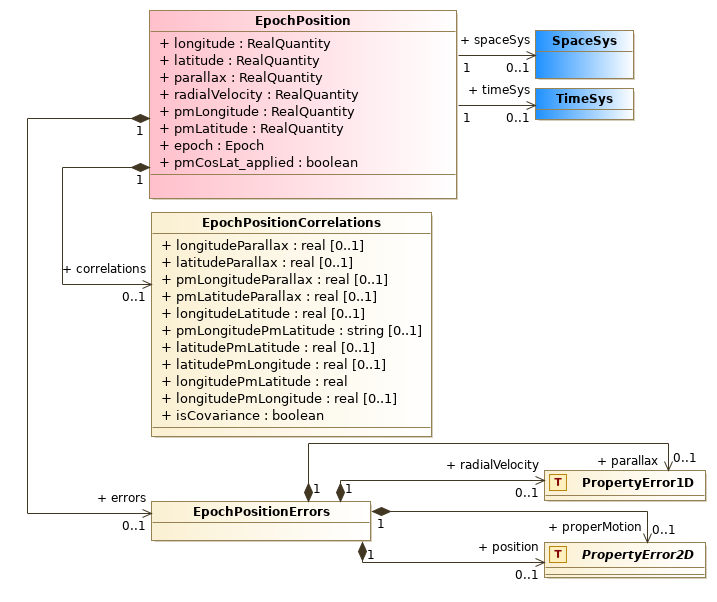
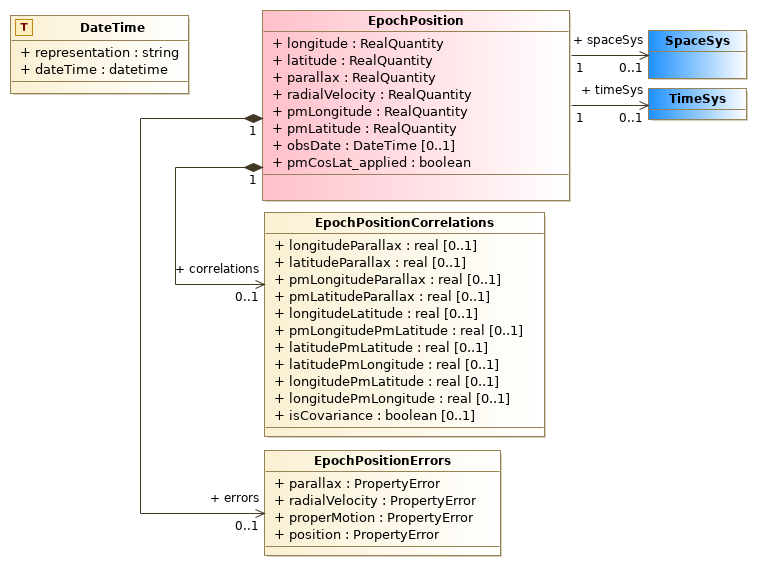
Doc update

diff --git a/docs/mivot/annoter.rst b/docs/mivot/annoter.rst
@@ -2,15 +2,16 @@
 MIVOT (``pyvo.mivot``): Annotation Writer - Public API
 ******************************************************
 
-This API allows to easily map VOTable data to recommended VO models, especially MANGO.
+This API allows to easily map VOTable data to the Mango data model (both native and imported components).
 Only a little knowledge of the models is required.
 
 Mango is a model designed to enhance the description of table data in a way that each table
 row can be interpreted as a Mango Object.
-Mango objects are made of a property container, a description of the data origin and links on other Mango objects (not implemented yet).
+Mango objects are made of a property container, a description of the data origin and links
+on other Mango objects (not implemented yet).
 
-In this current implementation, only a few properties are supported (Epoch position, photometry, and color)
-and the data origin can be added as literal values (not connected with table data). 
+In this current implementation, only a 3 properties are supported (Epoch position, photometry, and color)
+in addition to the data origin that can be added as literal values (not connected with table data). 
 
 The pseudo codes below show the way to use this API.
 
@@ -36,7 +37,7 @@ We can now add the description of the data origin.
 
  .. code-block:: python
  
-     builder.add_query_origin(...mapping...)
+     builder.add_query_origin(mapping)
  
 - The order in which the components are added does not matter.
 - The details of the parameters are described below.
@@ -57,20 +58,67 @@ are either column names or literal values.
 
 The lists of supported roles are given in the :py:mod:`pyvo.mivot.glossary`.
 
-The (3) functions adding properties have all 3 arguments
+The 3 functions adding properties have all 3 arguments
 
 - ``filter/frame``: Map of the coordinate systems or photometric calibrations that apply to the property.
   All values specified here are considered literal. 
   The corresponding Mivot instances are placed in the GLOBALS block.
+  
+  - **Photometric filter**: must be given as a filter profile service identifier (filter id followed with the photometric system)
+   
+    - Identifiers can be found on  the SVO `page <http://svo2.cab.inta-csic.es/theory/fps/>`_
+      (example: ``GAIA/GAIA3.Grp/AB``) 
+    - The FPS service returns a full calibration instance, which is then split into a filter object  
+      and a calibration object that refers to that filter.
+    - Each one of these components has its own ``dmid`` generated by the API. ``dmid`` can be used to reference them.
+      Example for filter ``GAIA/GAIA3.Grp/AB``:  
+       
+      - photometric calibration identifer: ``dmid="_photcal_GAIA_GAIA3_Grvs_AB"``
+      - filter identifier ``dmid="_filter_GAIA_GAIA3_Grvs_AB"``   
+  
+  - **Coordinate systems**: Can be given either by ``dmid`` or by parameters
+    (see `pyvo.mivot.writer.InstancesFromModels.add_simple_space_frame` 
+    and `pyvo.mivot.writer.InstancesFromModels.add_simple_time_frame`).
+
+    - by ``dmid``: Identifiers are generated by the API when a frame is added in the GLOBALS. 
+      (example ``{"dmid": "_spaceframe_spaceRefFrame_equinox_refPosition"}``)
+    - by parameters: The mapping parameters are given as dictionaries as for the mapping  (see below)
+      (example ``{"spaceRefFrame": "ICRS", "refPosition": 'BARYCENTER'}``)
+
 - ``Mapping``: Mapping of the table data to the property attributes. 
   The fine structure of these dictionaries is specific to each mapped class,
   but all follow the same pattern.
   Values specified as strings are considered to be column identifiers,
   unless the string starts with a '*'. In this case, the stripped string is taken as the literal value.
-  Other value types (numeric or boolean) are all considered literals. 
+  Other value types (numeric or boolean) are all considered as literals. 
+  
+  +-------------+---------------------------------+
+  | **value**   | **attribute value**             |
+  +=============+=================================+
+  | "\*M31"     | always M31                      |
+  +-------------+---------------------------------+
+  | "ObjName"   | value of the column "ObjName"   |
+  +-------------+---------------------------------+
+  | True        | always True                     |
+  +-------------+---------------------------------+
+  | 123456      | always 123456                   |
+  +-------------+---------------------------------+
+  | 45.8987     | always 45.8987                  |
+  +-------------+---------------------------------+
+
 - ``semantics``: Semantic tags (text + vocabulary entry) that apply to the property.
-  All values specified here are considered literal values. 
-- All query origin parameters are considered as literals 
+  
+  +-------------+---------------------------------------------------------+
+  + **key**     | **value**                                               +
+  +=============+=========================================================+
+  + description + free text description of the property                   +
+  +-------------+---------------------------------------------------------+
+  + uri         + URI of the vocabulary term to which the property refers +
+  +-------------+---------------------------------------------------------+
+  + label       + vocabulary term to which the property refers            +
+  +-------------+---------------------------------------------------------+
+
+  All ``semantics`` fields are considered literal values. 
 
 Add Query origin
 ----------------
@@ -93,28 +141,30 @@ of the MangoObject. It is always identified with ``dmid="_origin"``
 
 The detail of the ``mapping`` parameter is given in the `pyvo.mivot.writer.InstancesFromModels.add_query_origin` documentation
 
-The ``QueryOrigin`` object can be automatically built from the INFO tags the VOtable. The success of this operation depends
+The ``QueryOrigin`` object can be automatically built from the INFO tags of the VOtable. The success of this operation depends
 on the way INFO tags are populated. 
 
-- This code has been optimized to work with Vizier output.
-- INFO tags of the VOTable header are analysed to set the ``QueryOrigin`` attributes.
-- INFO tags of the header of the first resource are analyzed to set the ``DataOrigin`` objects.
-
-The method below, analyzes the INFO tags and insert the resulting query origin the annotations.
+The method below, analyzes the INFO tags and insert the resulting query origin into the annotations.
 
 .. code-block:: python
 
     builder.extract_data_origin()
 
+- This code has been optimized to work with Vizier output.
+- INFO tags of the VOTable header are analysed to set the ``QueryOrigin`` attributes.
+- INFO tags of the header of the first resource are analyzed to set the ``DataOrigin`` objects.
+- The automatic mapping does not work for VOtable joining several tables yet.
+
    
 Add Properties
 --------------
 
-The main purpose of the ``MangoObject`` is to gather various properties that qualify the data row.
+The main purpose of the ``MangoObject`` is to collect various properties contained in the data row,
+although synthetic properties (literal value only) can be added as well.
 
 - The properties are stored in a container named ``propertyDock``. 
 - During he annotation process, properties are added one by one by specific methods. 
-- Only Photometry and EpochPosition are supported yet.
+- Only ``Photometry``, ``color`` and ``EpochPosition``  are supported yet.
 
 
 .. figure:: _images/mangoProperties.png
@@ -127,8 +177,15 @@ Add EpochPosition
 ^^^^^^^^^^^^^^^^^
 
 The ``EpochPosition`` property describes the astrometry of a moving source.
-It handles six parameters (position, proper motion, parallax and radial velocity)
-with their correlations and errors and the coordinate system for both space and time axis.
+
+.. figure:: _images/mangoEpochPosition.png
+   :width: 500
+   
+   
+   EpochPosition components of Mango.
+
+It handles six parameters (position, proper motion, parallax and radial velocity) valid at a given epoch
+(``obsDate`` field) with their correlations and errors and the coordinate system for both space and time axis.
 
 .. code-block:: python
 
@@ -138,14 +195,16 @@ The detail of the parameters is given with the description of the
 :py:meth:`pyvo.mivot.writer.InstancesFromModels.add_mango_epoch_position` method.
 
 The first parameter (``frames``) specifies both space and time frames.
-It can either contain the frame dmid-s if they are already installed, for instance from TIMESYS and COOSYS tags:
+It can either contain the frame dmid-s if they are already installed, for instance from TIMESYS and COOSYS tags,
+or the mapping elements needed to install them:
 
+Both frames can be automatically extracted from the COOSYS and TIMSYS VOTable elements.
 .. code-block:: python
 
     frame_mapping = builder.extract_frames()
     builder.add_epoch_position(frame_mapping, mapping, semantics)
 
-This automatic metedata extraction can be extended to all method parameters:.
+This automatic metedata extraction can be extended to any method parameters.
 
 - COOSYS -> coords:SpaceSys
 - TIMESYS -> coords:TimeSys
@@ -163,26 +222,26 @@ mismatches or confusion cannot be ruled out.
 Add Brightness
 ^^^^^^^^^^^^^^
 
-The ``Brightness`` attaches to a flux or a magnitude with an error and a photometric calibration.
+The ``Brightness`` binds a flux or a magnitude with an error and a photometric calibration.
 
 .. code-block:: python
 
     builder.add_mango_brightness(photcal_id, mapping, semantics)
 
-The detail of the parameters is given with the description of the 
- :py:meth:`pyvo.mivot.writer.InstancesFromModels.add_mango_brightness` method.
+The detail of the parameters is given with the 
+:py:meth:`pyvo.mivot.writer.InstancesFromModels.add_mango_brightness` docstring.
 
 Add Color
 ^^^^^^^^^
 
-The ``Color`` attaches to a Color index or an hardness ratio value with an error and two photometric filters.
+The ``Color`` binds to a Color index or an hardness ratio value with an error and two photometric filters.
 
 .. code-block:: python
 
-    builder.add_mango_color(filter_idsn, mapping, semantics)
+    builder.add_mango_color(filter_ids, mapping, semantics)
 
-The detail of the parameters is given with the description of the 
- :py:meth:`pyvo.mivot.writer.InstancesFromModels.add_mango_color` method.
+The detail of the parameters is given with the 
+:py:meth:`pyvo.mivot.writer.InstancesFromModels.add_mango_color` docstring.
 
 
 Reference/API
